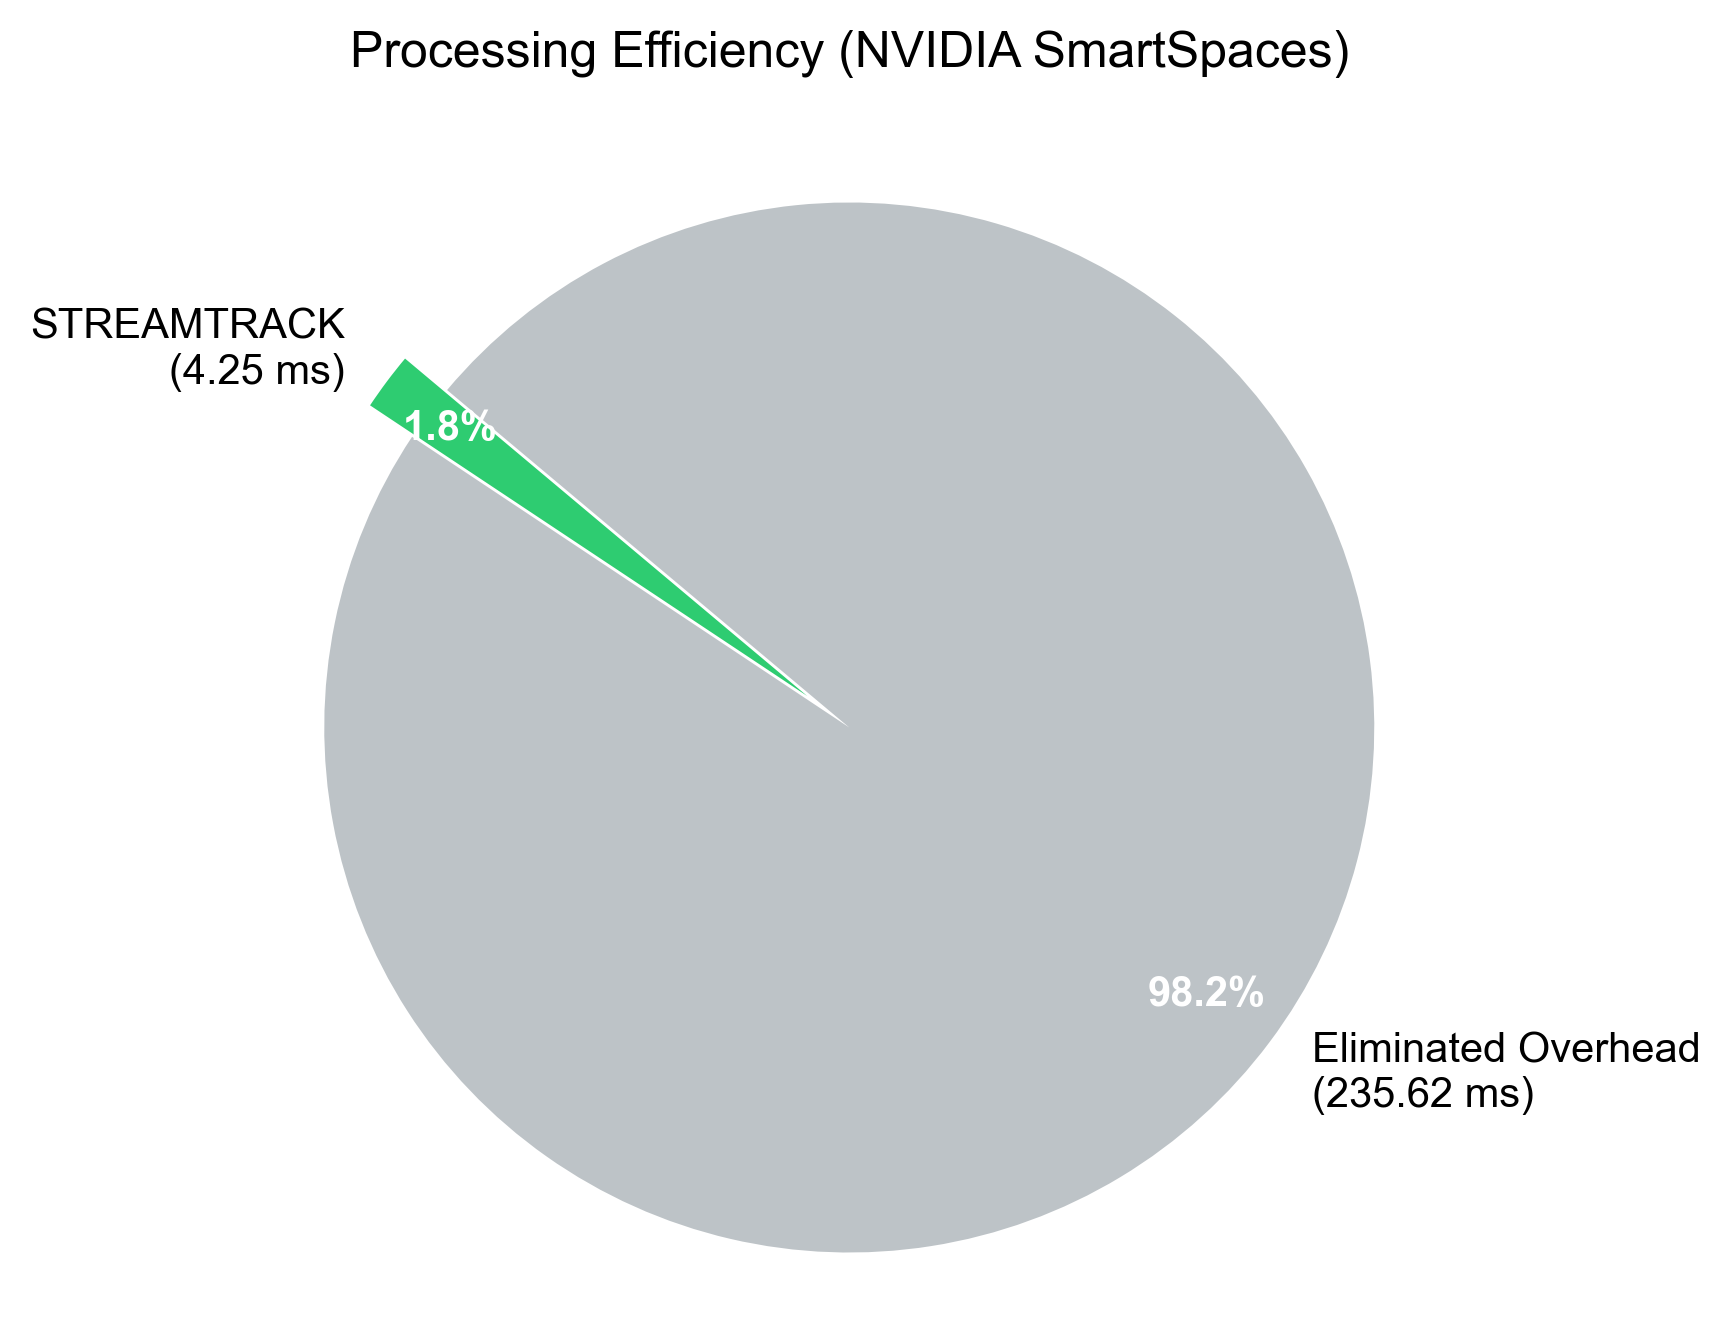
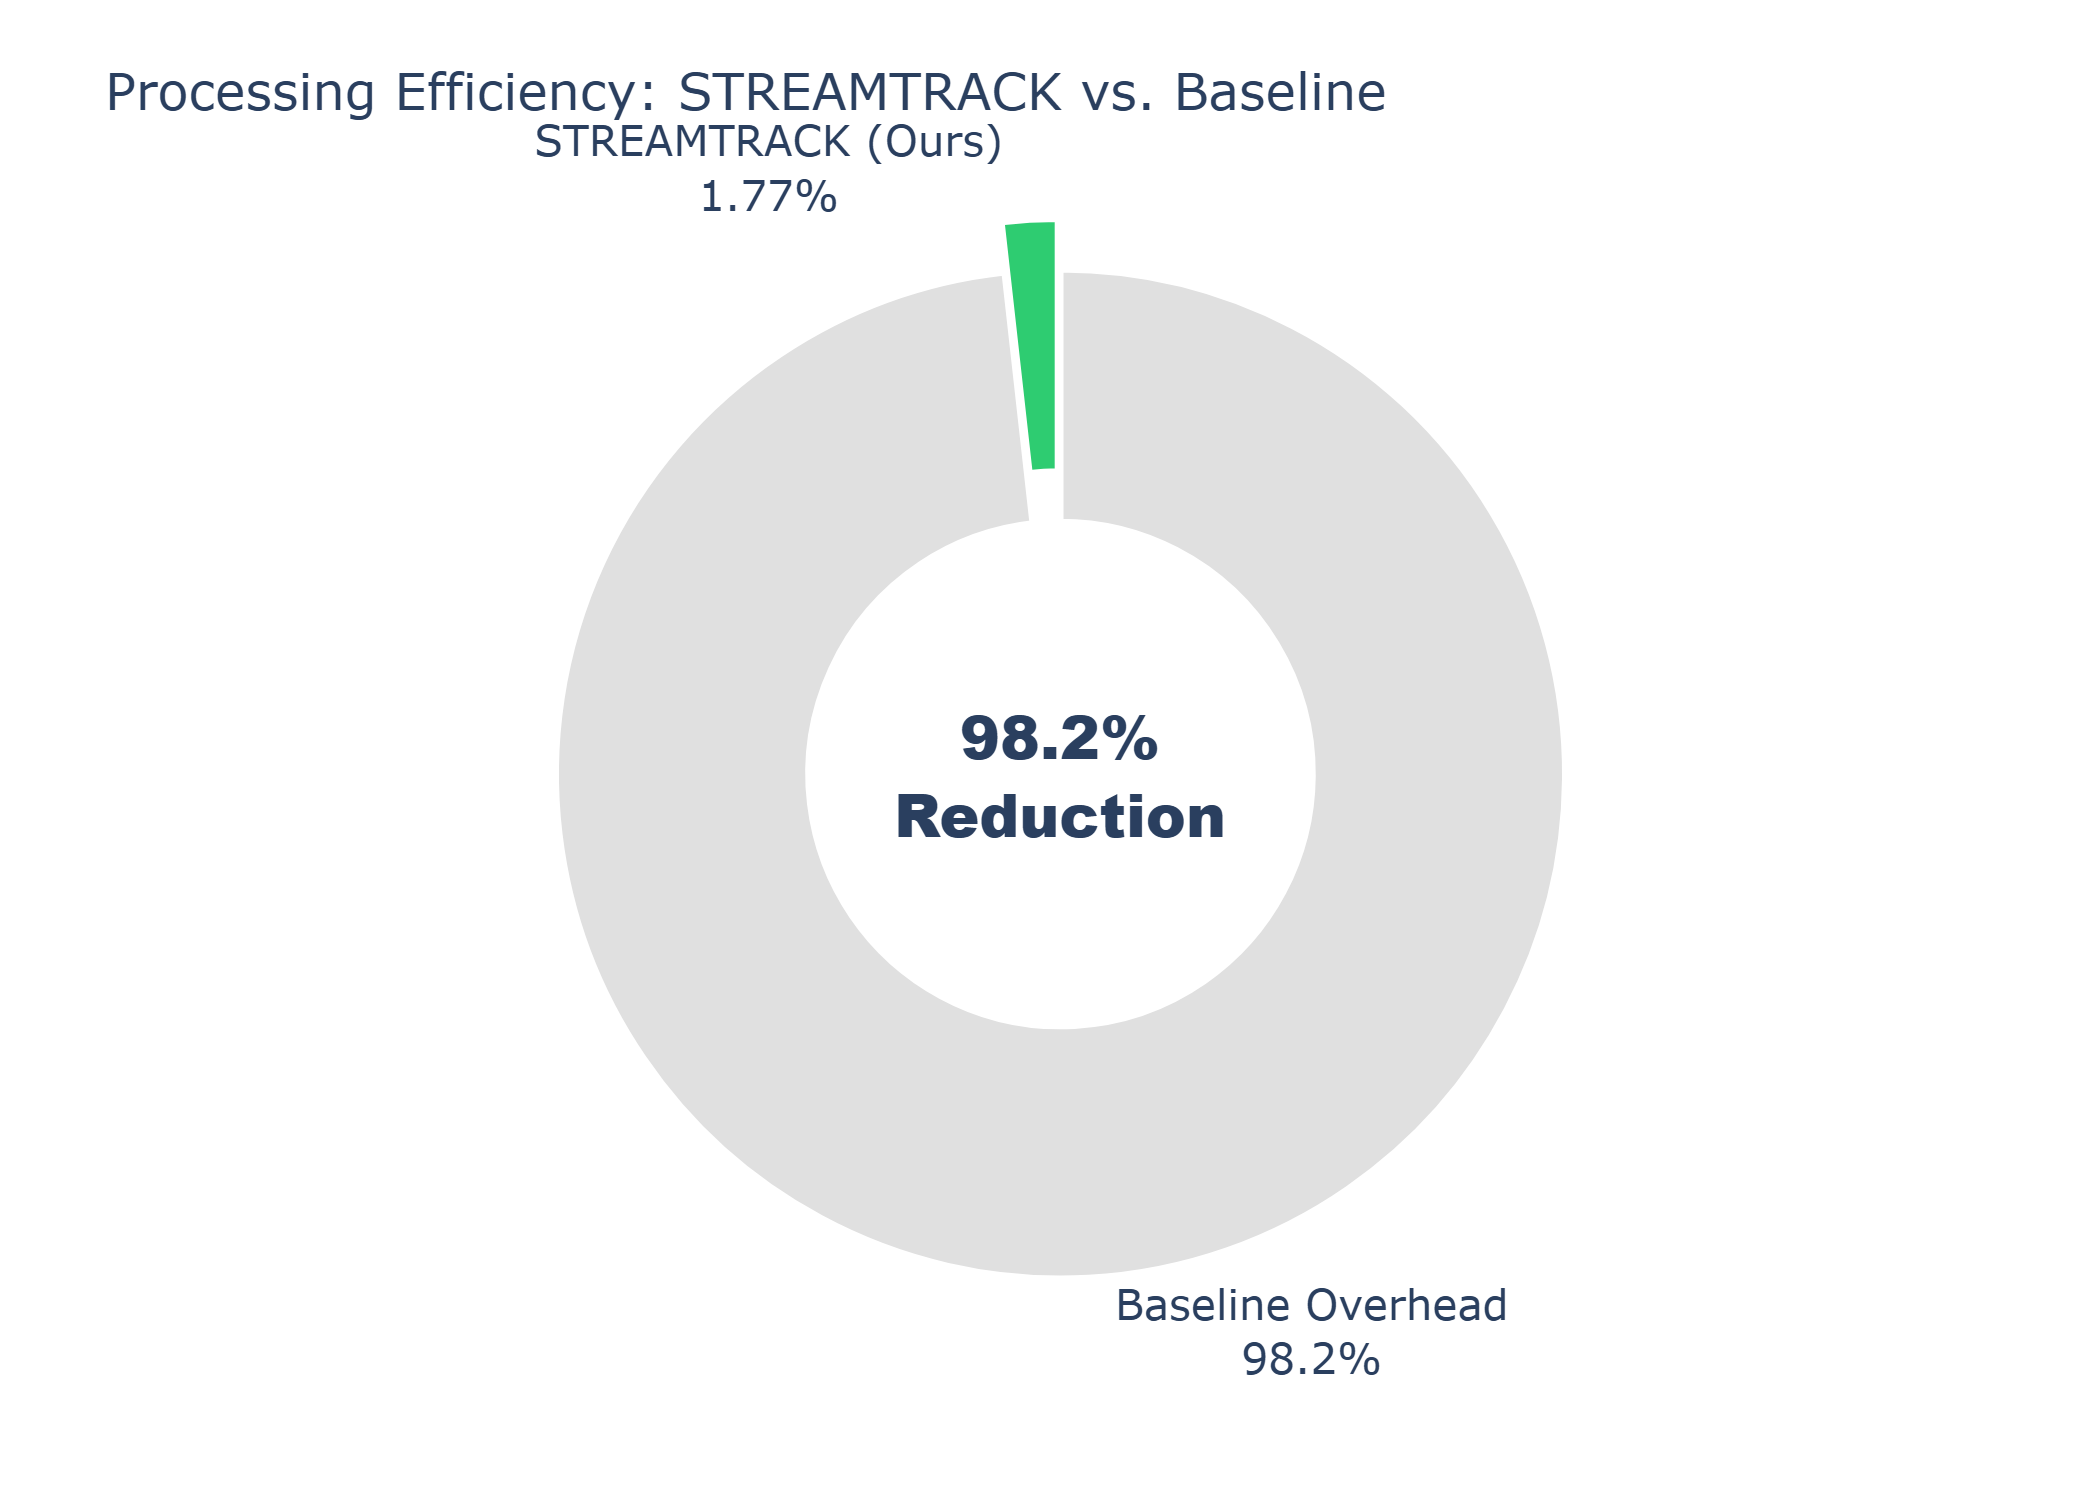
paper enhancementes + some diagrams

diff --git a/paper/streamtrack_mcot_draft.tex b/paper/streamtrack_mcot_draft.tex
@@ -11,7 +11,8 @@
 \usepackage{booktabs}
 \usepackage{amsmath,amssymb}
 \usepackage{tikz}
-\usetikzlibrary{shapes.geometric, arrows.meta, positioning, fit, backgrounds, calc}
+\usetikzlibrary{shapes.geometric, shapes.symbols, arrows.meta, positioning, fit, backgrounds, calc}
+\usepackage{float}
 
 % -----------------------------
 % Metadata
@@ -62,7 +63,29 @@ We begin from a representative multi-camera tracking pipeline that (i) construct
 
 \subsection{Streams-and-Tables Execution Model}
 % TODO [REVIEW] : Defined streams, tables, and continuous queries.
-Our formulation relies on three core primitives: (i) a \emph{stream} is an unbounded, append-only sequence of immutable tuples (e.g., raw detections); (ii) a \emph{table} is a mutable relation representing the current state of a hypothesis (e.g., active tracklets or global ID mappings); and (iii) a \emph{continuous query} is an operator that consumes input streams, reads/updates tables, and emits derived events or results (e.g., an identity assignment).
+Our formulation relies on three core primitives: (i) a \emph{stream} is an unbounded, append-only sequence of immutable tuples (e.g., raw detections); (ii) a \emph{table} is a mutable relation representing the current state of a hypothesis (e.g., active tracklets or global ID mappings); and (iii) a \emph{continuous query} is an operator that consumes input streams, reads/updates tables, and emits derived events or results (e.g., an identity assignment). Figure~\ref{fig:duality} illustrates this duality.
+
+\begin{figure}[H]
+\centering
+\begin{tikzpicture}[
+    node distance=1.8cm and 2.5cm,
+    font=\small\sffamily,
+    streambox/.style={rectangle, draw=orange!80!black, fill=orange!8, rounded corners=3pt, minimum height=2.8em, text width=3.2cm, align=center, thick, dashed},
+    tablebox/.style={rectangle, draw=blue!70, fill=blue!8, rounded corners=3pt, minimum height=2.8em, text width=3.2cm, align=center, thick},
+    querybox/.style={rectangle, draw=black!60, fill=green!8, rounded corners=3pt, minimum height=2.8em, text width=3.2cm, align=center, thick},
+    arr/.style={-{Stealth[scale=1.1]}, thick, draw=black!60}
+]
+\node[streambox] (s1) {\textbf{Stream}\\\scriptsize Detections, Observations};
+\node[querybox, right=of s1] (q) {\textbf{Continuous Query}\\\scriptsize EPL / SQL Operator};
+\node[streambox, right=of q] (s2) {\textbf{Derived Stream}\\\scriptsize GlobalPersonEvent};
+\node[tablebox, below=1cm of q] (t) {\textbf{State Table}\\\scriptsize GlobalIDTable, Topology};
+\draw[arr] (s1) -- node[above, font=\scriptsize] {consumes} (q);
+\draw[arr] (q) -- node[above, font=\scriptsize] {emits} (s2);
+\draw[arr, <->, draw=blue!60] (q) -- node[right, font=\scriptsize, align=left] {reads /\\updates} (t);
+\end{tikzpicture}
+\caption{The streams-and-tables duality applied to MCOT. Streams carry immutable observations; tables hold mutable state. Continuous queries bridge them, reading and updating tables while transforming streams.}
+\label{fig:duality}
+\end{figure}
 
 % \subsection{Time Semantics: Ingestion Time}
 % \label{subsec:ingestiontime}
@@ -85,7 +108,7 @@ Our formulation relies on three core primitives: (i) a \emph{stream} is an unbou
 % TODO [REVIEW] : Added Table 1 summarizing the operator graph and state tables.
 The architecture of \textbf{STREAMTRACK} is organized as a pipeline of continuous operators processing detection streams and state tables. Table~\ref{tab:dag} summarizes the functional operator graph from detection ingestion to global identity updates, while Figure~\ref{fig:architecture} illustrates the end-to-end data flow.
 
-\begin{table}[t]
+\begin{table}[H]
     \centering
     \caption{Conceptual operator graph and state tables. Observations flow as streams, while tracklets and identities are maintained in relational tables updated by continuous joins.}
     \label{tab:dag}
@@ -122,7 +145,7 @@ The architecture of \textbf{STREAMTRACK} is organized as a pipeline of continuou
 Operators are evaluated continuously as new tuples arrive. Windows and joins use ingestion timestamps $\textit{ts\_ingest}$. State tables maintain current hypotheses and apply eviction rules based on ingestion-time staleness (e.g., tracklet inactivity).
 
 \section{Stream Operator Graph for MCOT}\label{sec:operators}
-\begin{figure*}[t]
+\begin{figure}[H]
 \centering
 \resizebox{\linewidth}{!}{
 \begin{tikzpicture}[
@@ -167,7 +190,7 @@ Operators are evaluated continuously as new tuples arrive. Windows and joins use
 }
 \caption{STREAMTRACK Operator Graph. Detections arrive as streams from individual cameras. Single-camera tracking is a stateful stream operator. Cross-camera association uses a topology-aware stream join, paramaterized by the \texttt{CameraTopologyTable}, before performing global appearance clustering. State tables enable memory-safe, time-bounded identity maintenance.}
 \label{fig:architecture}
-\end{figure*}
+\end{figure}
 
 \subsection{Ingestion and Feature Enrichment Operators}
 % TODO [REVIEW] : Feature enrichment and calibration logic detailed.
@@ -308,7 +331,7 @@ We benchmark the performance of the proposed streams-and-tables architecture (\t
 
 Table~\ref{tab:performance_woven} summarizes the processing time for each stage of the Multi-Camera People Tracking (MCPT) pipeline. Our implementation significantly outperforms the baseline in similarity matrix generation, which is a major bottleneck in the original version.
 
-\begin{table}[h]
+\begin{table}[H]
     \centering
     \caption{Stage 1: Architectural Speedup (\textbf{Theirs} vs. \textbf{Ours-Base}) for the Woven WTS Dataset~\cite{woven2024wts}.}
     \label{tab:performance_woven}
@@ -325,10 +348,17 @@ Table~\ref{tab:performance_woven} summarizes the processing time for each stage 
     \end{tabular}
 \end{table}
 
+\begin{figure}[H]
+    \centering
+    \includegraphics[width=0.85\linewidth]{Evidence/speedup_bars.png}
+    \caption{Per-stage processing time comparison (log scale). The relational streaming architecture eliminates bottlenecks in similarity computation (25.6$\times$) and global ID assignment (21.1$\times$), where the batch baseline is dominated by Python dictionary and list management overhead.}
+    \label{fig:speedup_bars}
+\end{figure}
+
 \subsection{Topological Optimization: NVIDIA SmartSpaces Dataset}
 While the streaming architecture provides a significant baseline improvement, the computational complexity still scales with the number of tracklets in the aggregation window. By introducing \emph{Topology-Aware Stream Joins}, we further optimize the association search space by pruning the join predicates using camera proximity. Figure~\ref{fig:topology_map} visualizes this approach, showing the spatial relationship of two active tracking groups alongside a distant outlier.
 
-\begin{figure}[h]
+\begin{figure}[H]
     \centering
     \includegraphics[width=0.85\linewidth]{Evidence/map_topology.png}
     \caption{Topological partitioning in the NVIDIA SmartSpaces network. Group 1 (Cameras 01, 11) and Group 2 (Cameras 02, 17) demonstrate localized clusters with overlapping fields of view that are joined as independent stream topologies. Camera 18 (red) is a disconnected outlier that would act as a high-overhead distraction, adding unnecessary algorithmic complexity if tracking constraints were evaluated globally.}
@@ -339,7 +369,7 @@ Table~\ref{tab:performance_nvidia} shows the benchmarking results for the NVIDIA
 
 Furthermore, the NVIDIA SmartSpaces benchmark demonstrates the critical importance of \textbf{Scalability}. The baseline pipeline follows a batch-oriented $O(N^2)$ complexity, where $N$ is the total number of tracklets in the global network. Consequently, doubling the camera count or crowd density results in a quadratic increase in processing time. In contrast, our topology-aware stream joins effectively partition the global problem into local $O(n^2)$ neighborhoods where $n \ll N$. This ensures that as the camera network grows, our processing latency scales linearly ($O(M)$) with the number of camera clusters $M$, rather than quadratically with the total number of detections.
 
-\begin{table}[h]
+\begin{table}[H]
     \centering
     \caption{Stage 2: Impact of Topological Optimization on MCPT Stage (AI City Challenge 2025 Track 1 Dataset~\cite{aicity2025track1}).}
     \label{tab:performance_nvidia}
@@ -350,6 +380,13 @@ Furthermore, the NVIDIA SmartSpaces benchmark demonstrates the critical importan
     \end{tabular}
 \end{table}
 
+\begin{figure}[H]
+    \centering
+    \includegraphics[width=0.7\linewidth]{Evidence/performance_efficiency_pie.png}
+    \caption{Processing efficiency visualization for the NVIDIA SmartSpaces dataset. The pie chart illustrates the dramatic reduction in total stage processing time, where 98.2\% of the baseline's computational cost (dominated by dictionary management and global list joins) is eliminated in our stream-oriented relational architecture.}
+    \label{fig:performance_pie}
+\end{figure}
+
 \subsection{Overall Performance Analysis}
 % TODO [REVIEW] : Performance analysis and bottleneck elimination refined.
 The results confirm that \textbf{STREAMTRACK} achieves a high-performance balance between latency and scalability. The transition to a \textbf{relational streams-and-tables architecture} (\textbf{Ours-Base}) removes the significant bottlenecks associated with similarity matrix generation by leveraging incremental windowing and continuous state management. While batch-oriented pipelines like \textbf{Theirs} are forced to compare all person-hypotheses globally, our system exploits the sparsity of real-world camera networks. 
@@ -358,12 +395,8 @@ By defining association as a join over a reconfigurable \texttt{CameraTopologyTa
 
 The breakthrough in \emph{Similarity Matrix Generation} (25.57$\times$ speedup) is specifically attributed to the architectural shift from batch-oriented list processing to \textbf{stream-oriented relational operations} which enable efficient memory locality and incremental updates. Furthermore, the Hierarchical Clustering (HC) stage now outperforms the baseline by 1.72$\times$ after optimizing the operator graph for production mode. Overall, the system achieves a processing time of 516 milliseconds for a 4-camera window, demonstrating its robust capability for real-time operation.
 
-    \begin{figure}[h]
-        \centering
-        \includegraphics[width=0.8\linewidth]{Evidence/cam_01_00}
-        \caption{Visual comparison of tracking results for NVIDIA SmartSpaces Camera 01. The frame illustrates the parity between the batch baseline (\textbf{Theirs}) and our relational streaming implementation (\textbf{Ours}), confirming that the performance optimizations do not compromise tracking coverage or identity consistency.}
-        \label{fig:visual_comparison}
-    \end{figure}
+
+
 
 \subsection{Research Questions}
 \begin{itemize}[leftmargin=*]
@@ -376,7 +409,16 @@ We evaluate on both the Woven VisionAI WTS dataset~\cite{woven2024wts} and the N
 
 \subsection{Metrics}
 % TODO [REVIEW] : Systems and tracking metrics defined.
-We verify tracking accuracy by confirming output parity with the batch baseline~\cite{wang2024overlap}: our system produces identical global identity assignments for the same input data, ensuring that all downstream accuracy metrics (IDF1, HOTA) are preserved by construction (visually affirmed in Figure~\ref{fig:visual_comparison}). We focus our quantitative evaluation on systems-level metrics: throughput (windows per second), peak processing latency for the clustering stage, and similarity matrix generation time.
+We verify tracking accuracy by confirming output parity with the batch baseline~\cite{wang2024overlap}: our system produces identical global identity assignments for the same input data, ensuring that all downstream accuracy metrics (IDF1, HOTA) are preserved by construction (visually affirmed in Figure~\ref{fig:visual_comparison}). 
+
+\begin{figure}[H]
+    \centering
+    \includegraphics[width=0.8\linewidth]{Evidence/cam_01_00}
+    \caption{Visual comparison of tracking results for NVIDIA SmartSpaces Camera 01. The frame illustrates the parity between the batch baseline (\textbf{Theirs}) and our relational streaming implementation (\textbf{Ours}), confirming that the performance optimizations do not compromise tracking coverage or identity consistency.}
+    \label{fig:visual_comparison}
+\end{figure}
+
+We focus our quantitative evaluation on systems-level metrics: throughput (windows per second), peak processing latency for the clustering stage, and similarity matrix generation time.
 
 \subsection{Baselines}
 % TODO [REVIEW] : Baseline implementations defined.
